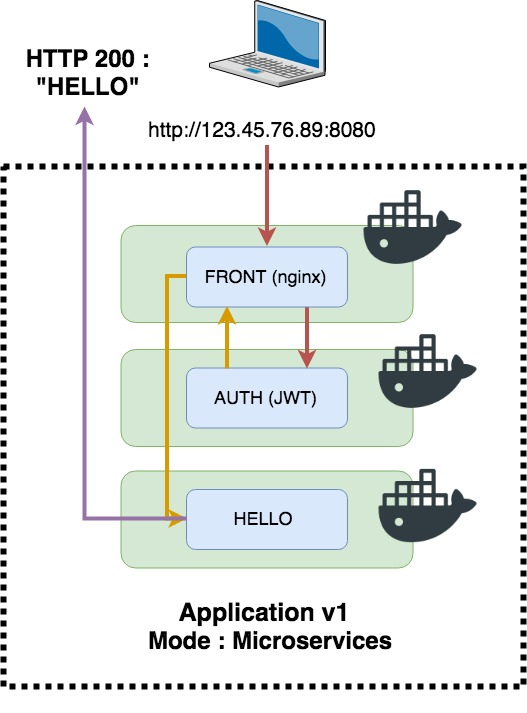
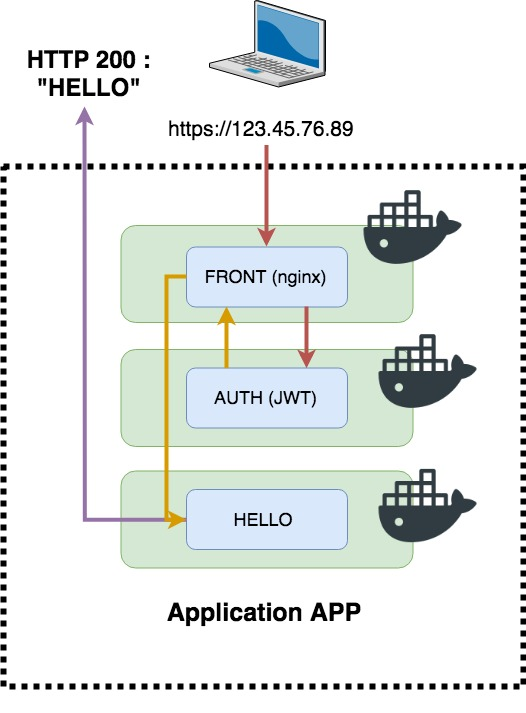
Fixed : image APP 02_Pod + typos

diff --git a/03_ReplicatSet_Deployment/Exercice.md b/03_ReplicatSet_Deployment/Exercice.md
@@ -34,7 +34,7 @@ Il est donc necessaire d'expliquer à Kubernetes, en mode déclaratif, de quelle
 On se donne le fichier suivant :
 
 ```
-apiVersion: extensions/v1beta1
+ apiVersion: extensions/v1beta1
  kind: ReplicaSet
  metadata:
    name: soaktestrs
@@ -97,7 +97,7 @@ spec:
 
 
 Le ReplicatSet orchestrera 
-- Un replica de 3 POD "auth"
+- Un replica de 3 PODs "auth"
 - Chaque POD étant composé de 1 container Docker dont l'image est kelseyhightower/auth:2.0.0
 - Le container exposera sur le port en 80/HTTP
 - Le squellette de fichier de configuration est donné ci-après 
@@ -138,7 +138,9 @@ spec:
 
 ### Configuration du ReplicaSet pour le Pod "hello"
 
-On rappelle le fichier de configuration du Pod "hello"
+En sachant que le ReplicatSet orchestrera 
+- Un replica de 3 PODs "hello"
+- Et que Le Pod template est donné par le fichier de configuration du Pod "hello" ci dessous. 
 
 ```
 apiVersion: v1
@@ -160,14 +162,14 @@ spec:
           cpu: 0.3
           memory: "50Mi"
 ```
-
-
-Le ReplicatSet orchestrera 
-- Un replica de 3 POD "hello"
-- Chaque POD étant composé de 1 container Docker dont l'image est kelseyhightower/hello:2.0.0
-- Le container exposera sur le port 80/HTTP
  
-11. Ecrire le fichier de configuration du ReplicatSet
+11. Ecrire le fichier de configuration du ReplicatSet pour le Pod "hello"
 12. Creér le ReplicatSet avec le fichier de configuration précedent 
 13. Quel est le resultat de la commande : `kubectl get pods`
-14. Quel est le resultat de la commande : `kubectl get replicasets`
+14. Quel est le resultat de la commande : `kubectl describe rs/hello`
+
+### Configuration du ReplicaSet pour le Pod "frontend"
+
+Le "frontend" est un Pod qui lance une image Docker : **nginx:1.9.14** . Le serveur nginx recoit les requêtes utilisateur en HTTPS. Le tunnel SSL/TLS 
+
+

diff --git a/02_Pods /Exercice.md b/02_Pods /Exercice.md
@@ -26,7 +26,7 @@ A la fin de l'exercice nous aurons :
 - Lancer les Pods. 
 - Inspecter les Pods en utilisant **kubectl** .
 
-Les Pods sont pour le moment indépendants. Dans les parties suivantes nous étudierons les objets qui permettrons d'orchestrer ces Pods entre eux et ainsi de remplir la fonction applicative : retourner "hello" à une requête HTTP d'un utilisateur.     
+Les Pods sont pour le moment indépendants. Dans les parties suivantes nous étudierons les objets qui permettrons d'orchestrer ces Pods entre eux et ainsi de remplir la fonction applicative : retourner "hello" à une requête HTTPS d'un utilisateur.     
 
 ## Pod "auth"
 
